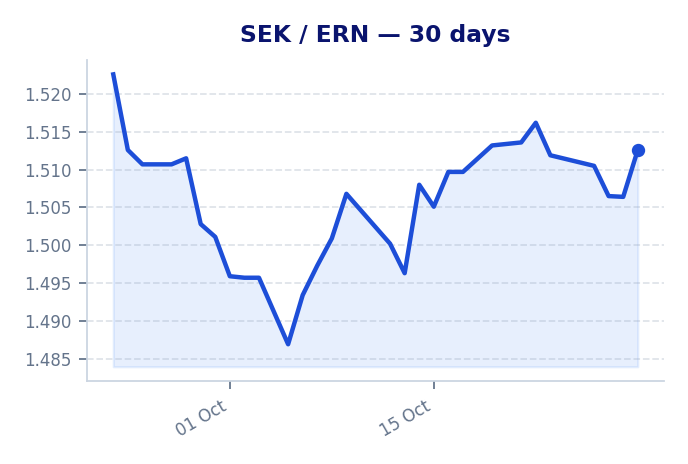
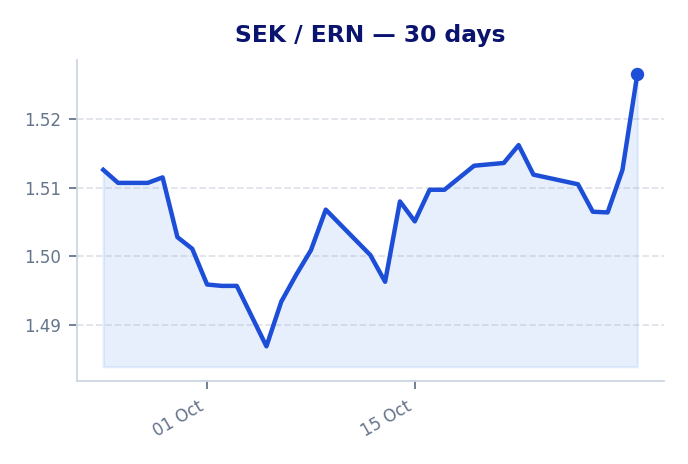
Add files via upload

diff --git a/index.html b/index.html
@@ -912,22 +912,22 @@ tr:hover {
 
             <div class="summary-item">
                 <div class="summary-label">SEK</div>
-                <div class="summary-value">1.5126</div>
+                <div class="summary-value">1.5265</div>
             </div>
 
             <div class="summary-item">
                 <div class="summary-label">NOK</div>
-                <div class="summary-value">1.6194</div>
+                <div class="summary-value">1.6254</div>
             </div>
 
             <div class="summary-item">
                 <div class="summary-label">DKK</div>
-                <div class="summary-value">2.2354</div>
+                <div class="summary-value">2.2451</div>
             </div>
 
             </div>
             <div class="mid-market-meta">
-                <div><span style="font-weight:600" data-i18n="last-updated">Last Updated:</span> 2026-10-29 07:03</div>
+                <div><span style="font-weight:600" data-i18n="last-updated">Last Updated:</span> 2026-10-30 07:06</div>
                 <div style="font-size:0.8rem" data-i18n="mid-market-note">Official mid-market rates collected daily. Actual transfer payout rates shown below.</div>
             </div>
         </div>
@@ -947,11 +947,11 @@ tr:hover {
             <div class="insight-boxes">
                 <div class="bestbox">
                     <span class="icon">🏆</span> 
-                    <span data-i18n="top-pick">Top Pick: <b>Ria</b> delivers <b>14 800 ERN</b></span>
+                    <span data-i18n="top-pick">Top Pick: <b>Ria</b> delivers <b>14 900 ERN</b></span>
                 </div>
                 <div class="gainbox">
                     <span class="icon">💡</span> 
-                    <span data-i18n="smart-move">Smart Move: You get <b>+337 ERN</b> more with <b>Ria</b> vs <b>Juba Express</b></span>
+                    <span data-i18n="smart-move">Smart Move: You get <b>+303 ERN</b> more with <b>Ria</b> vs <b>Juba Express</b></span>
                 </div>
             </div>
             
@@ -974,11 +974,11 @@ tr:hover {
 <td class="left">
     <div class="company-name">Ria</div>
 </td>
-<td class="right font-numeric">1.4800</td>
+<td class="right font-numeric">1.4900</td>
 <td class="right font-numeric">0,00</td>
-<td class="right nowrap font-numeric highlight-ern">14 800</td>
+<td class="right nowrap font-numeric highlight-ern">14 900</td>
 <td class="right nowrap font-numeric">-</td>
-<td class="right font-numeric markup-cell">2.16%</td>
+<td class="right font-numeric markup-cell">2.39%</td>
 <td class="right font-numeric hide-mobile"><span class="badge best-badge">Best</span></td>
 </tr>
 
@@ -986,47 +986,47 @@ tr:hover {
 <td class="left">
     <div class="company-name">Remitly</div>
 </td>
-<td class="right font-numeric">1.4742</td>
+<td class="right font-numeric">1.4849</td>
 <td class="right font-numeric">0,00</td>
-<td class="right nowrap font-numeric highlight-ern">14 742</td>
-<td class="right nowrap font-numeric"><span class="loss-text">-58 ERN</span></td>
-<td class="right font-numeric markup-cell">2.54%</td>
+<td class="right nowrap font-numeric highlight-ern">14 849</td>
+<td class="right nowrap font-numeric"><span class="loss-text">-50 ERN</span></td>
+<td class="right font-numeric markup-cell">2.73%</td>
 <td class="right font-numeric hide-mobile"><span class="badge rank-badge">#2</span></td>
-</tr>
-
-<tr class="">
-<td class="left">
-    <div class="company-name">Western Union</div>
-</td>
-<td class="right font-numeric">1.4728</td>
-<td class="right font-numeric">0,00</td>
-<td class="right nowrap font-numeric highlight-ern">14 728</td>
-<td class="right nowrap font-numeric"><span class="loss-text">-71 ERN</span></td>
-<td class="right font-numeric markup-cell">2.63%</td>
-<td class="right font-numeric hide-mobile"><span class="badge rank-badge">#3</span></td>
 </tr>
 
 <tr class="">
 <td class="left">
     <div class="company-name">Transfer Galaxy</div>
 </td>
-<td class="right font-numeric">1.4694</td>
+<td class="right font-numeric">1.4753</td>
 <td class="right font-numeric">0,00</td>
-<td class="right nowrap font-numeric highlight-ern">14 694</td>
-<td class="right nowrap font-numeric"><span class="loss-text">-106 ERN</span></td>
-<td class="right font-numeric markup-cell">2.86%</td>
-<td class="right font-numeric hide-mobile"><span class="badge rank-badge">#4</span></td>
+<td class="right nowrap font-numeric highlight-ern">14 753</td>
+<td class="right nowrap font-numeric"><span class="loss-text">-147 ERN</span></td>
+<td class="right font-numeric markup-cell">3.35%</td>
+<td class="right font-numeric hide-mobile"><span class="badge rank-badge">#3</span></td>
 </tr>
 
 <tr class="">
 <td class="left">
     <div class="company-name">Dahabshiil</div>
 </td>
-<td class="right font-numeric">1.4572</td>
+<td class="right font-numeric">1.4701</td>
 <td class="right font-numeric">0,00</td>
-<td class="right nowrap font-numeric highlight-ern">14 572</td>
-<td class="right nowrap font-numeric"><span class="loss-text">-228 ERN</span></td>
-<td class="right font-numeric markup-cell">3.66%</td>
+<td class="right nowrap font-numeric highlight-ern">14 701</td>
+<td class="right nowrap font-numeric"><span class="loss-text">-199 ERN</span></td>
+<td class="right font-numeric markup-cell">3.69%</td>
+<td class="right font-numeric hide-mobile"><span class="badge rank-badge">#4</span></td>
+</tr>
+
+<tr class="">
+<td class="left">
+    <div class="company-name">Western Union</div>
+</td>
+<td class="right font-numeric">1.4695</td>
+<td class="right font-numeric">0,00</td>
+<td class="right nowrap font-numeric highlight-ern">14 695</td>
+<td class="right nowrap font-numeric"><span class="loss-text">-205 ERN</span></td>
+<td class="right font-numeric markup-cell">3.73%</td>
 <td class="right font-numeric hide-mobile"><span class="badge rank-badge">#5</span></td>
 </tr>
 
@@ -1034,10 +1034,10 @@ tr:hover {
 <td class="left">
     <div class="company-name">Juba Express</div>
 </td>
-<td class="right font-numeric">1.4463</td>
+<td class="right font-numeric">1.4597</td>
 <td class="right font-numeric">0,00</td>
-<td class="right nowrap font-numeric highlight-ern">14 463</td>
-<td class="right nowrap font-numeric"><span class="loss-text">-337 ERN</span></td>
+<td class="right nowrap font-numeric highlight-ern">14 597</td>
+<td class="right nowrap font-numeric"><span class="loss-text">-303 ERN</span></td>
 <td class="right font-numeric markup-cell">4.38%</td>
 <td class="right font-numeric hide-mobile"><span class="badge rank-badge">#6</span></td>
 </tr>
@@ -1060,11 +1060,11 @@ tr:hover {
             <div class="insight-boxes">
                 <div class="bestbox">
                     <span class="icon">🏆</span> 
-                    <span data-i18n="top-pick">Top Pick: <b>Transfer Galaxy</b> delivers <b>15 728 ERN</b></span>
+                    <span data-i18n="top-pick">Top Pick: <b>Ria Money Transfer</b> delivers <b>15 760 ERN</b></span>
                 </div>
                 <div class="gainbox">
                     <span class="icon">💡</span> 
-                    <span data-i18n="smart-move">Smart Move: You get <b>+886 ERN</b> more with <b>Transfer Galaxy</b> vs <b>Hidmona Money Transfer</b></span>
+                    <span data-i18n="smart-move">Smart Move: You get <b>+918 ERN</b> more with <b>Ria Money Transfer</b> vs <b>Hidmona Money Transfer</b></span>
                 </div>
             </div>
             
@@ -1085,13 +1085,13 @@ tr:hover {
                         
 <tr class="best-row">
 <td class="left">
-    <div class="company-name">Transfer Galaxy</div>
+    <div class="company-name">Ria Money Transfer</div>
 </td>
-<td class="right font-numeric">1.5728</td>
+<td class="right font-numeric">1.5760</td>
 <td class="right font-numeric">0,00</td>
-<td class="right nowrap font-numeric highlight-ern">15 728</td>
+<td class="right nowrap font-numeric highlight-ern">15 760</td>
 <td class="right nowrap font-numeric">-</td>
-<td class="right font-numeric markup-cell">2.88%</td>
+<td class="right font-numeric markup-cell">3.04%</td>
 <td class="right font-numeric hide-mobile"><span class="badge best-badge">Best</span></td>
 </tr>
 
@@ -1099,23 +1099,23 @@ tr:hover {
 <td class="left">
     <div class="company-name">Remitly</div>
 </td>
-<td class="right font-numeric">1.5693</td>
+<td class="right font-numeric">1.5755</td>
 <td class="right font-numeric">0,00</td>
-<td class="right nowrap font-numeric highlight-ern">15 693</td>
-<td class="right nowrap font-numeric"><span class="loss-text">-35 ERN</span></td>
-<td class="right font-numeric markup-cell">3.09%</td>
+<td class="right nowrap font-numeric highlight-ern">15 754</td>
+<td class="right nowrap font-numeric"><span class="loss-text">-5 ERN</span></td>
+<td class="right font-numeric markup-cell">3.07%</td>
 <td class="right font-numeric hide-mobile"><span class="badge rank-badge">#2</span></td>
 </tr>
 
 <tr class="">
 <td class="left">
-    <div class="company-name">Ria Money Transfer</div>
+    <div class="company-name">Transfer Galaxy</div>
 </td>
-<td class="right font-numeric">1.5670</td>
+<td class="right font-numeric">1.5705</td>
 <td class="right font-numeric">0,00</td>
-<td class="right nowrap font-numeric highlight-ern">15 670</td>
-<td class="right nowrap font-numeric"><span class="loss-text">-58 ERN</span></td>
-<td class="right font-numeric markup-cell">3.24%</td>
+<td class="right nowrap font-numeric highlight-ern">15 705</td>
+<td class="right nowrap font-numeric"><span class="loss-text">-55 ERN</span></td>
+<td class="right font-numeric markup-cell">3.38%</td>
 <td class="right font-numeric hide-mobile"><span class="badge rank-badge">#3</span></td>
 </tr>
 
@@ -1123,10 +1123,10 @@ tr:hover {
 <td class="left">
     <div class="company-name">Juba Express</div>
 </td>
-<td class="right font-numeric">1.5487</td>
+<td class="right font-numeric">1.5544</td>
 <td class="right font-numeric">0,00</td>
-<td class="right nowrap font-numeric highlight-ern">15 487</td>
-<td class="right nowrap font-numeric"><span class="loss-text">-241 ERN</span></td>
+<td class="right nowrap font-numeric highlight-ern">15 544</td>
+<td class="right nowrap font-numeric"><span class="loss-text">-216 ERN</span></td>
 <td class="right font-numeric markup-cell">4.37%</td>
 <td class="right font-numeric hide-mobile"><span class="badge rank-badge">#4</span></td>
 </tr>
@@ -1135,11 +1135,11 @@ tr:hover {
 <td class="left">
     <div class="company-name">Dahabshiil</div>
 </td>
-<td class="right font-numeric">1.5116</td>
+<td class="right font-numeric">1.5165</td>
 <td class="right font-numeric">0,00</td>
-<td class="right nowrap font-numeric highlight-ern">15 116</td>
-<td class="right nowrap font-numeric"><span class="loss-text">-612 ERN</span></td>
-<td class="right font-numeric markup-cell">6.66%</td>
+<td class="right nowrap font-numeric highlight-ern">15 165</td>
+<td class="right nowrap font-numeric"><span class="loss-text">-595 ERN</span></td>
+<td class="right font-numeric markup-cell">6.70%</td>
 <td class="right font-numeric hide-mobile"><span class="badge rank-badge">#5</span></td>
 </tr>
 
@@ -1150,8 +1150,8 @@ tr:hover {
 <td class="right font-numeric">1.4842</td>
 <td class="right font-numeric">0,00</td>
 <td class="right nowrap font-numeric highlight-ern">14 842</td>
-<td class="right nowrap font-numeric"><span class="loss-text">-886 ERN</span></td>
-<td class="right font-numeric markup-cell">8.35%</td>
+<td class="right nowrap font-numeric"><span class="loss-text">-918 ERN</span></td>
+<td class="right font-numeric markup-cell">8.69%</td>
 <td class="right font-numeric hide-mobile"><span class="badge rank-badge">#6</span></td>
 </tr>
 
@@ -1173,11 +1173,11 @@ tr:hover {
             <div class="insight-boxes">
                 <div class="bestbox">
                     <span class="icon">🏆</span> 
-                    <span data-i18n="top-pick">Top Pick: <b>Ria Money Transfer</b> delivers <b>22 230 ERN</b></span>
+                    <span data-i18n="top-pick">Top Pick: <b>Western Union</b> delivers <b>22 150 ERN</b></span>
                 </div>
                 <div class="gainbox">
                     <span class="icon">💡</span> 
-                    <span data-i18n="smart-move">Smart Move: You get <b>+853 ERN</b> more with <b>Ria Money Transfer</b> vs <b>Juba Express</b></span>
+                    <span data-i18n="smart-move">Smart Move: You get <b>+682 ERN</b> more with <b>Western Union</b> vs <b>Juba Express</b></span>
                 </div>
             </div>
             
@@ -1198,25 +1198,25 @@ tr:hover {
                         
 <tr class="best-row">
 <td class="left">
-    <div class="company-name">Ria Money Transfer</div>
+    <div class="company-name">Western Union</div>
 </td>
-<td class="right font-numeric">2.2230</td>
+<td class="right font-numeric">2.2150</td>
 <td class="right font-numeric">0,00</td>
-<td class="right nowrap font-numeric highlight-ern">22 230</td>
+<td class="right nowrap font-numeric highlight-ern">22 150</td>
 <td class="right nowrap font-numeric">-</td>
-<td class="right font-numeric markup-good">0.55%</td>
+<td class="right font-numeric markup-good">1.34%</td>
 <td class="right font-numeric hide-mobile"><span class="badge best-badge">Best</span></td>
 </tr>
 
 <tr class="">
 <td class="left">
-    <div class="company-name">Western Union</div>
+    <div class="company-name">Ria Money Transfer</div>
 </td>
-<td class="right font-numeric">2.2114</td>
+<td class="right font-numeric">2.2000</td>
 <td class="right font-numeric">0,00</td>
-<td class="right nowrap font-numeric highlight-ern">22 113</td>
-<td class="right nowrap font-numeric"><span class="loss-text">-116 ERN</span></td>
-<td class="right font-numeric markup-good">1.07%</td>
+<td class="right nowrap font-numeric highlight-ern">22 000</td>
+<td class="right nowrap font-numeric"><span class="loss-text">-150 ERN</span></td>
+<td class="right font-numeric markup-cell">2.01%</td>
 <td class="right font-numeric hide-mobile"><span class="badge rank-badge">#2</span></td>
 </tr>
 
@@ -1224,11 +1224,11 @@ tr:hover {
 <td class="left">
     <div class="company-name">Remitly</div>
 </td>
-<td class="right font-numeric">2.1829</td>
+<td class="right font-numeric">2.1932</td>
 <td class="right font-numeric">0,00</td>
-<td class="right nowrap font-numeric highlight-ern">21 829</td>
-<td class="right nowrap font-numeric"><span class="loss-text">-401 ERN</span></td>
-<td class="right font-numeric markup-cell">2.35%</td>
+<td class="right nowrap font-numeric highlight-ern">21 932</td>
+<td class="right nowrap font-numeric"><span class="loss-text">-218 ERN</span></td>
+<td class="right font-numeric markup-cell">2.31%</td>
 <td class="right font-numeric hide-mobile"><span class="badge rank-badge">#3</span></td>
 </tr>
 
@@ -1239,8 +1239,8 @@ tr:hover {
 <td class="right font-numeric">2.1817</td>
 <td class="right font-numeric">0,00</td>
 <td class="right nowrap font-numeric highlight-ern">21 817</td>
-<td class="right nowrap font-numeric"><span class="loss-text">-412 ERN</span></td>
-<td class="right font-numeric markup-cell">2.40%</td>
+<td class="right nowrap font-numeric"><span class="loss-text">-332 ERN</span></td>
+<td class="right font-numeric markup-cell">2.82%</td>
 <td class="right font-numeric hide-mobile"><span class="badge rank-badge">#4</span></td>
 </tr>
 
@@ -1248,11 +1248,11 @@ tr:hover {
 <td class="left">
     <div class="company-name">Transfer Galaxy</div>
 </td>
-<td class="right font-numeric">2.1720</td>
+<td class="right font-numeric">2.1733</td>
 <td class="right font-numeric">0,00</td>
-<td class="right nowrap font-numeric highlight-ern">21 720</td>
-<td class="right nowrap font-numeric"><span class="loss-text">-510 ERN</span></td>
-<td class="right font-numeric markup-cell">2.84%</td>
+<td class="right nowrap font-numeric highlight-ern">21 732</td>
+<td class="right nowrap font-numeric"><span class="loss-text">-417 ERN</span></td>
+<td class="right font-numeric markup-cell">3.20%</td>
 <td class="right font-numeric hide-mobile"><span class="badge rank-badge">#5</span></td>
 </tr>
 
@@ -1260,11 +1260,11 @@ tr:hover {
 <td class="left">
     <div class="company-name">Juba Express</div>
 </td>
-<td class="right font-numeric">2.1377</td>
+<td class="right font-numeric">2.1468</td>
 <td class="right font-numeric">0,00</td>
-<td class="right nowrap font-numeric highlight-ern">21 377</td>
-<td class="right nowrap font-numeric"><span class="loss-text">-853 ERN</span></td>
-<td class="right font-numeric markup-cell">4.37%</td>
+<td class="right nowrap font-numeric highlight-ern">21 468</td>
+<td class="right nowrap font-numeric"><span class="loss-text">-682 ERN</span></td>
+<td class="right font-numeric markup-cell">4.38%</td>
 <td class="right font-numeric hide-mobile"><span class="badge rank-badge">#6</span></td>
 </tr>
 
@@ -1282,7 +1282,7 @@ tr:hover {
             <div class="chart-card">
                 <div class="chart-header">
                     <img src="https://flagcdn.com/w40/se.png" class="flag-sm" alt="Sweden" width="24" height="16" loading="lazy" decoding="async"> <span>SEK / ERN</span>
-                    <span class="trend-badge down">▼ 0.7%</span>
+                    <span class="trend-badge up">▲ 0.9%</span>
                 </div>
                 <img src="sek_chart.png" class="chart-img" alt="SEK to ERN exchange-rate trend over the last 30 days" loading="lazy" decoding="async" width="688" height="464">
             </div>
@@ -1290,7 +1290,7 @@ tr:hover {
             <div class="chart-card">
                 <div class="chart-header">
                     <img src="https://flagcdn.com/w40/no.png" class="flag-sm" alt="Norway" width="24" height="16" loading="lazy" decoding="async"> <span>NOK / ERN</span>
-                    <span class="trend-badge up">▲ 2.2%</span>
+                    <span class="trend-badge up">▲ 2.9%</span>
                 </div>
                 <img src="nok_chart.png" class="chart-img" alt="NOK to ERN exchange-rate trend over the last 30 days" loading="lazy" decoding="async" width="688" height="464">
             </div>
@@ -1298,7 +1298,7 @@ tr:hover {
             <div class="chart-card">
                 <div class="chart-header">
                     <img src="https://flagcdn.com/w40/dk.png" class="flag-sm" alt="Denmark" width="24" height="16" loading="lazy" decoding="async"> <span>DKK / ERN</span>
-                    <span class="trend-badge down">▼ 2.5%</span>
+                    <span class="trend-badge down">▼ 1.7%</span>
                 </div>
                 <img src="dkk_chart.png" class="chart-img" alt="DKK to ERN exchange-rate trend over the last 30 days" loading="lazy" decoding="async" width="688" height="464">
             </div>
@@ -1361,7 +1361,7 @@ tr:hover {
         "calculator-note": "እቲ ዝበለጸ ክፍሊት ንዝኣተኻዮ መጠን ብተመሳሳሊ ሕሳብ ዋጋን ክፍሊትን ከም ሰንጠረዥ ይደጋገም።"
     };
 
-    const calculatorData = {"SEK": [{"provider": "Ria", "rate": 1.48, "total_fee": 0.0}, {"provider": "Remitly", "rate": 1.4742, "total_fee": 0.0}, {"provider": "Western Union", "rate": 1.4728, "total_fee": 0.0}, {"provider": "Transfer Galaxy", "rate": 1.4694, "total_fee": 0.0}, {"provider": "Dahabshiil", "rate": 1.4572, "total_fee": 0.0}, {"provider": "Juba Express", "rate": 1.4463, "total_fee": 0.0}], "NOK": [{"provider": "Transfer Galaxy", "rate": 1.5728, "total_fee": 0.0}, {"provider": "Remitly", "rate": 1.5693, "total_fee": 0.0}, {"provider": "Ria Money Transfer", "rate": 1.567, "total_fee": 0.0}, {"provider": "Juba Express", "rate": 1.5487, "total_fee": 0.0}, {"provider": "Dahabshiil", "rate": 1.5116, "total_fee": 0.0}, {"provider": "Hidmona Money Transfer", "rate": 1.4842, "total_fee": 0.0}], "DKK": [{"provider": "Ria Money Transfer", "rate": 2.223, "total_fee": 0.0}, {"provider": "Western Union", "rate": 2.2114, "total_fee": 0.0}, {"provider": "Remitly", "rate": 2.1829, "total_fee": 0.0}, {"provider": "Hidmona Money Transfer", "rate": 2.1817, "total_fee": 0.0}, {"provider": "Transfer Galaxy", "rate": 2.172, "total_fee": 0.0}, {"provider": "Juba Express", "rate": 2.1377, "total_fee": 0.0}]};
+    const calculatorData = {"SEK": [{"provider": "Ria", "rate": 1.49, "total_fee": 0.0}, {"provider": "Remitly", "rate": 1.4849, "total_fee": 0.0}, {"provider": "Transfer Galaxy", "rate": 1.4753, "total_fee": 0.0}, {"provider": "Dahabshiil", "rate": 1.4701, "total_fee": 0.0}, {"provider": "Western Union", "rate": 1.4695, "total_fee": 0.0}, {"provider": "Juba Express", "rate": 1.4597, "total_fee": 0.0}], "NOK": [{"provider": "Ria Money Transfer", "rate": 1.576, "total_fee": 0.0}, {"provider": "Remitly", "rate": 1.5755, "total_fee": 0.0}, {"provider": "Transfer Galaxy", "rate": 1.5705, "total_fee": 0.0}, {"provider": "Juba Express", "rate": 1.5544, "total_fee": 0.0}, {"provider": "Dahabshiil", "rate": 1.5165, "total_fee": 0.0}, {"provider": "Hidmona Money Transfer", "rate": 1.4842, "total_fee": 0.0}], "DKK": [{"provider": "Western Union", "rate": 2.215, "total_fee": 0.0}, {"provider": "Ria Money Transfer", "rate": 2.2, "total_fee": 0.0}, {"provider": "Remitly", "rate": 2.1932, "total_fee": 0.0}, {"provider": "Hidmona Money Transfer", "rate": 2.1817, "total_fee": 0.0}, {"provider": "Transfer Galaxy", "rate": 2.1733, "total_fee": 0.0}, {"provider": "Juba Express", "rate": 2.1468, "total_fee": 0.0}]};
     const labels = [...document.querySelectorAll('[data-i18n]')];
     const english = new Map(labels.map(el => [el, el.innerHTML]));
 
